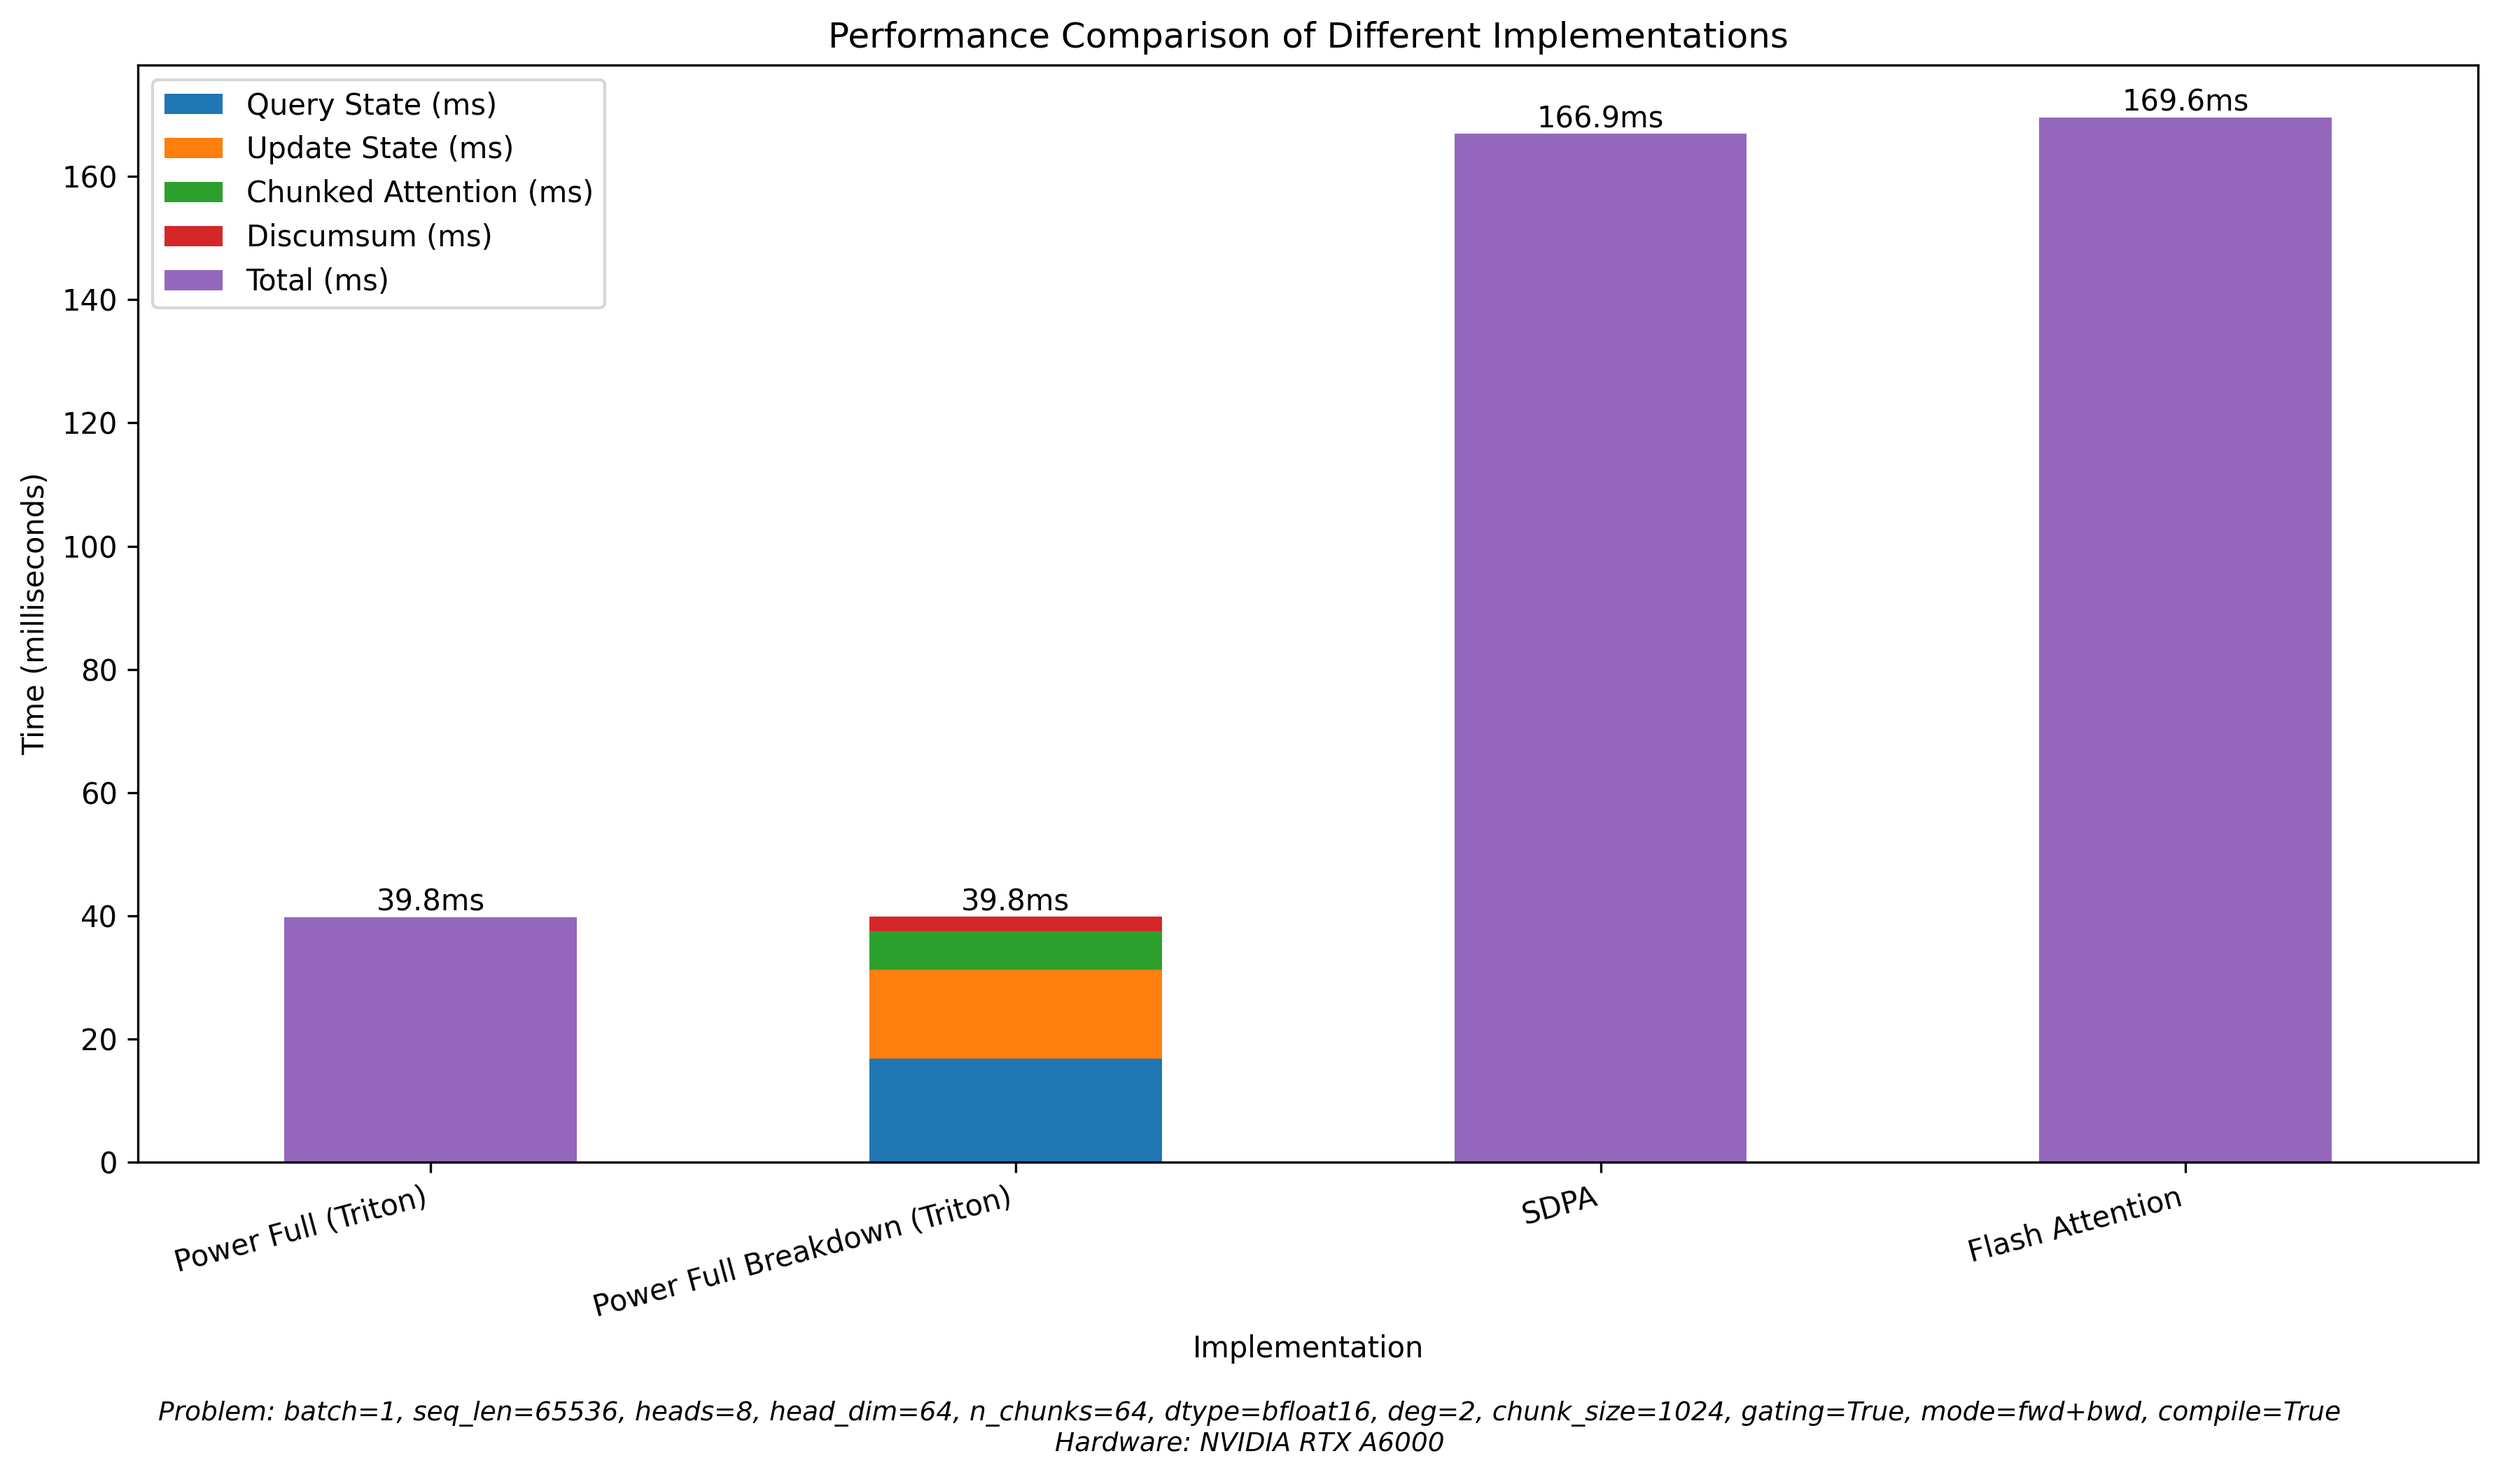
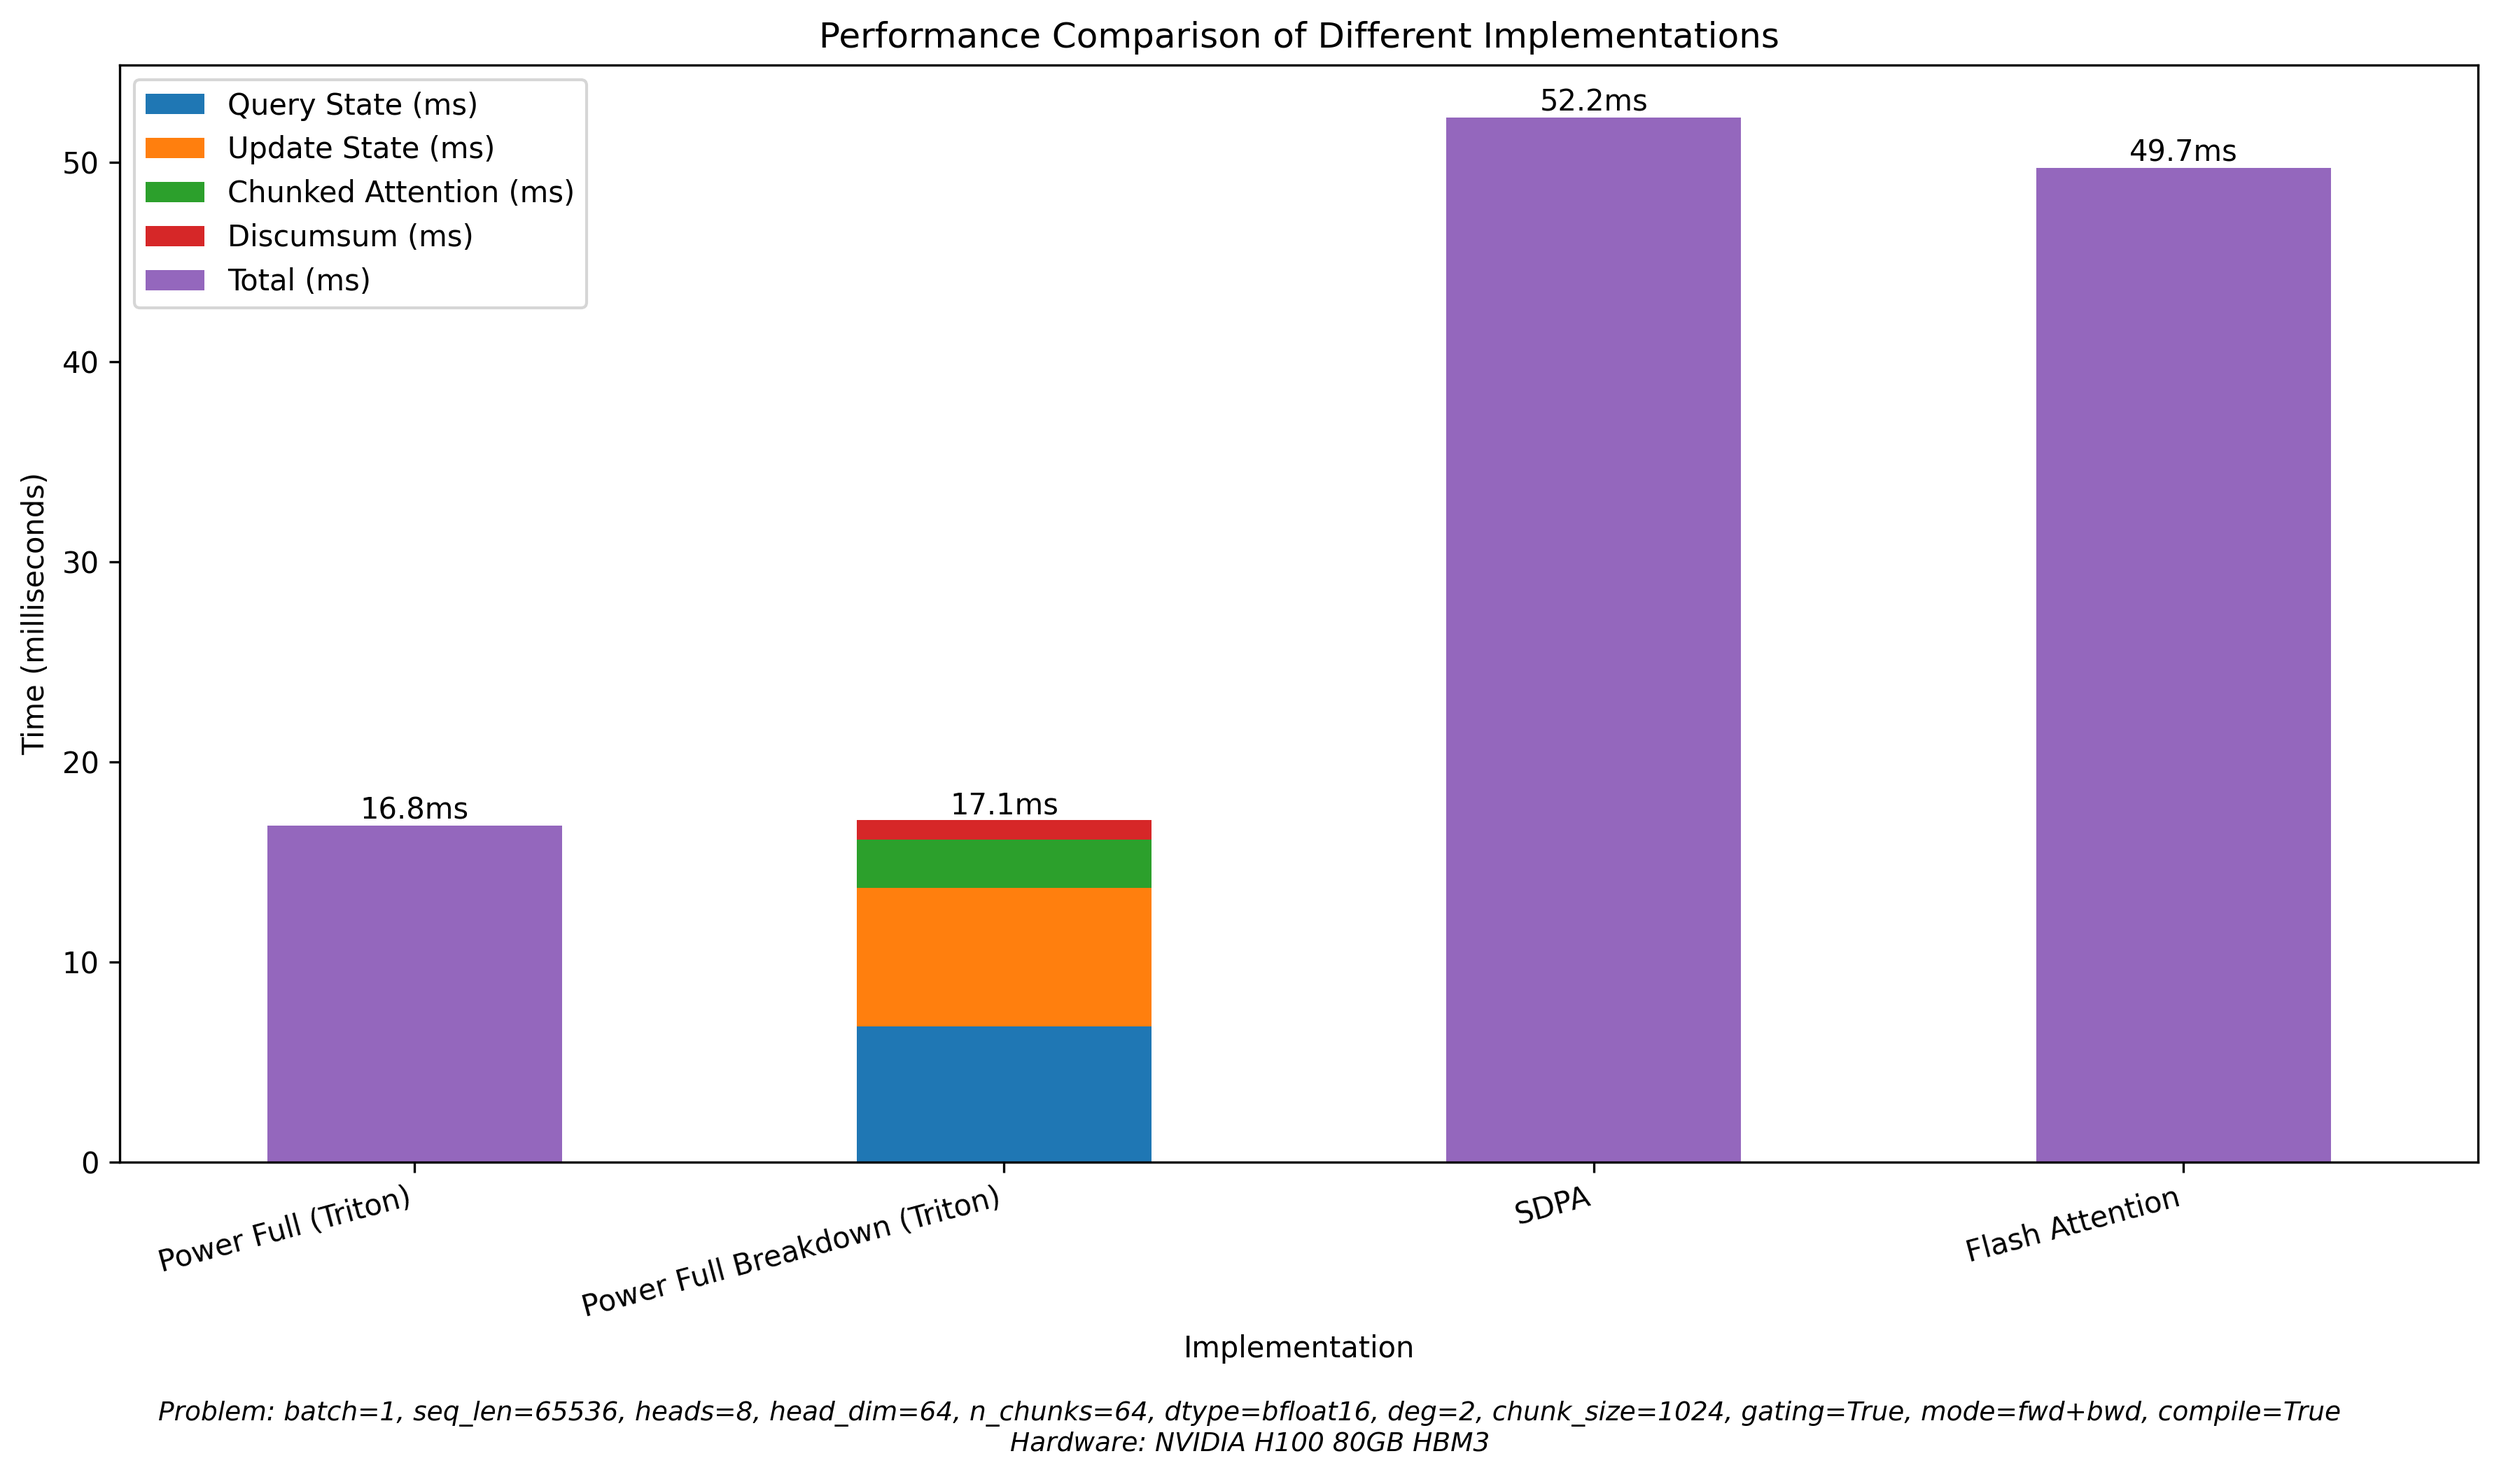
udpate plots on H100

diff --git a/perf/README.md b/perf/README.md
@@ -10,7 +10,7 @@ To understand the performance of power-attention, we compare the execution time 
 
 ![single_problem_benchmark](../plots/single_problem.png)
 
-For example, the above shows that for a problem with batch 1, seqlen 65536, heads 8, head_dim 64, flash-attention and torch's scaled-dot-product-attention function both takes around 168ms to compute the output on A6000, whereas power-attention takes 39.8ms, resulting a **4.2x** throughput improvement.
+For example, the above shows that for a problem with batch 1, seqlen 65536, heads 8, head_dim 64, flash-attention and torch's scaled-dot-product-attention function both takes around 50ms to compute the output on H100, whereas power-attention takes 16.8ms, resulting a **3x** throughput improvement.
 
 To run benchmark on a different problem, refer to `benchmark.py` for different options one can specify.
 
